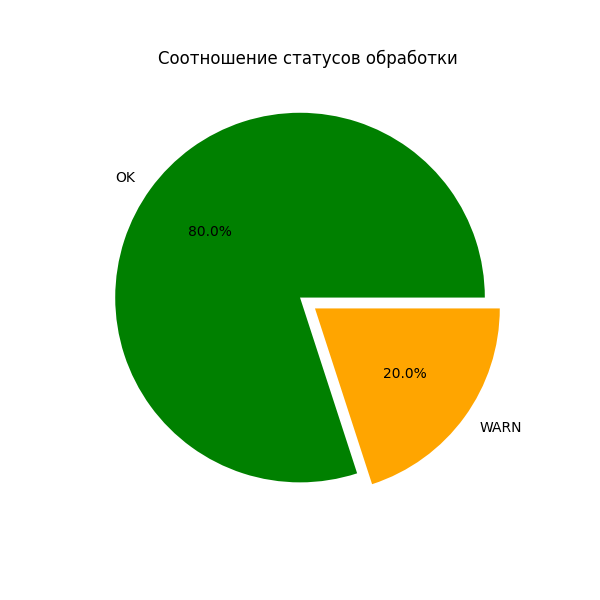
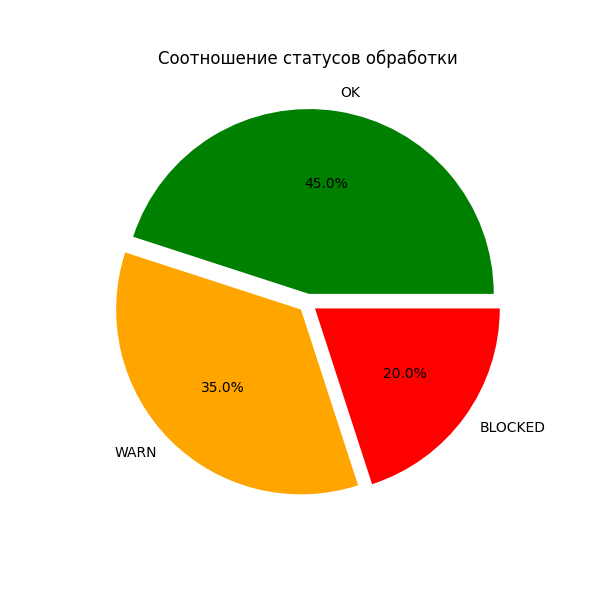
изменение7

diff --git a/sniffer.py b/sniffer.py
@@ -7,27 +7,28 @@ import matplotlib.pyplot as plt
 # Настройки сети (читаем из переменных окружения - ключей контейнера)
 AP_MAC = os.environ.get('AP_MAC', 'AA:BB:CC:DD:EE:FF')
 SSID = os.environ.get('SSID', 'OfficeNet_5G')
-Deauth_threshold = int(os.environ.get('Deauth_threshold', '2'))  # сколько deauth подряд считается атакой
+Deauth_threshold = int(os.environ.get('Deauth_threshold', '3'))  # сколько deauth подряд считается атакой
 
 Printers = {
     'Printer-1': '11:22:33:44:55:66',
     'Printer-2': '22:33:44:55:66:77',
-    'Printer-3': '33:44:55:66:77:88'
+    'Printer-3': '33:44:55:66:77:88',
+    'Printer-4': '44:55:66:77:88:99'
 }
 
 Normal_types = ['BEACON', 'DATA', 'DATA', 'ASSOC_REQ', 'PROBE_REQ']
 frames = []
 
 # у каждого принтера свой brust-счетчик
-burst = {'Printer-1': 0, 'Printer-2': 0, 'Printer-3': 0}
+burst = {'Printer-1': 0, 'Printer-2': 0, 'Printer-3': 0, 'Printer-4': 0}
 
-for i in range(15):
+for i in range(20):
   # Каждый кадр - выбираем случайный принтер как цель
   printer_name = random.choice(list(Printers.keys()))
   printer_mac = Printers[printer_name]
 
   # Зона атаки - кадры 6-12, вероятность 70%
-  is_attack = 6 <= i < 13 and random.random() < 0.7
+  is_attack = 5 <= i < 17 and random.random() < 0.7
 
   if is_attack:
     ftype =  'DEAUTH'
